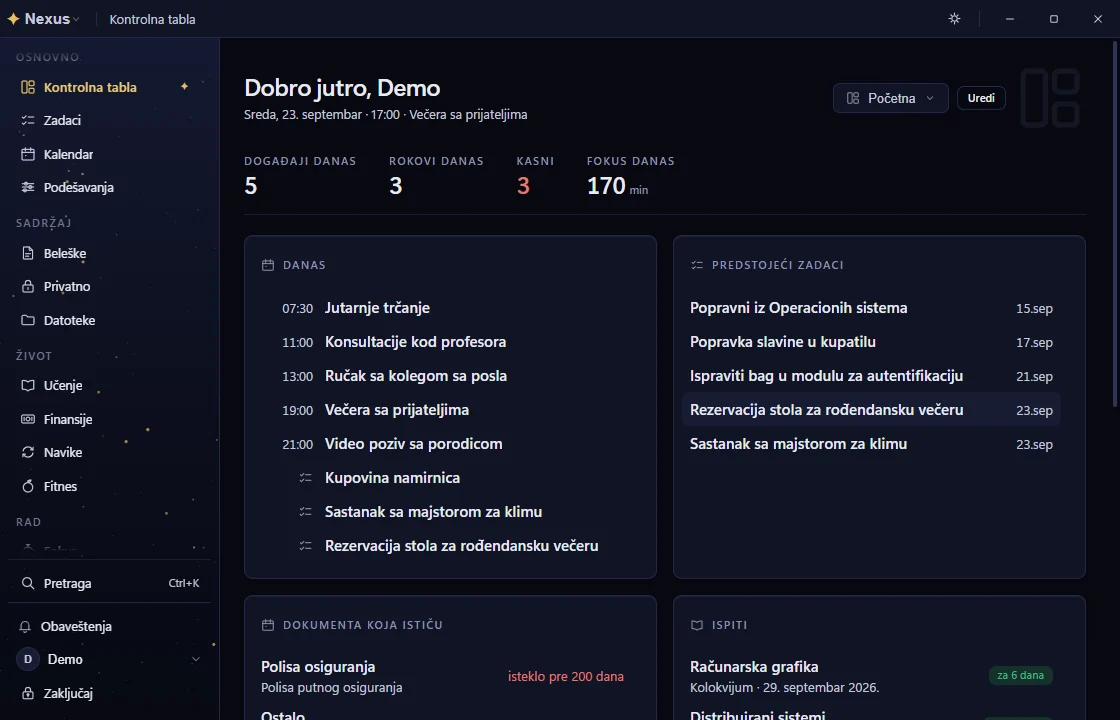
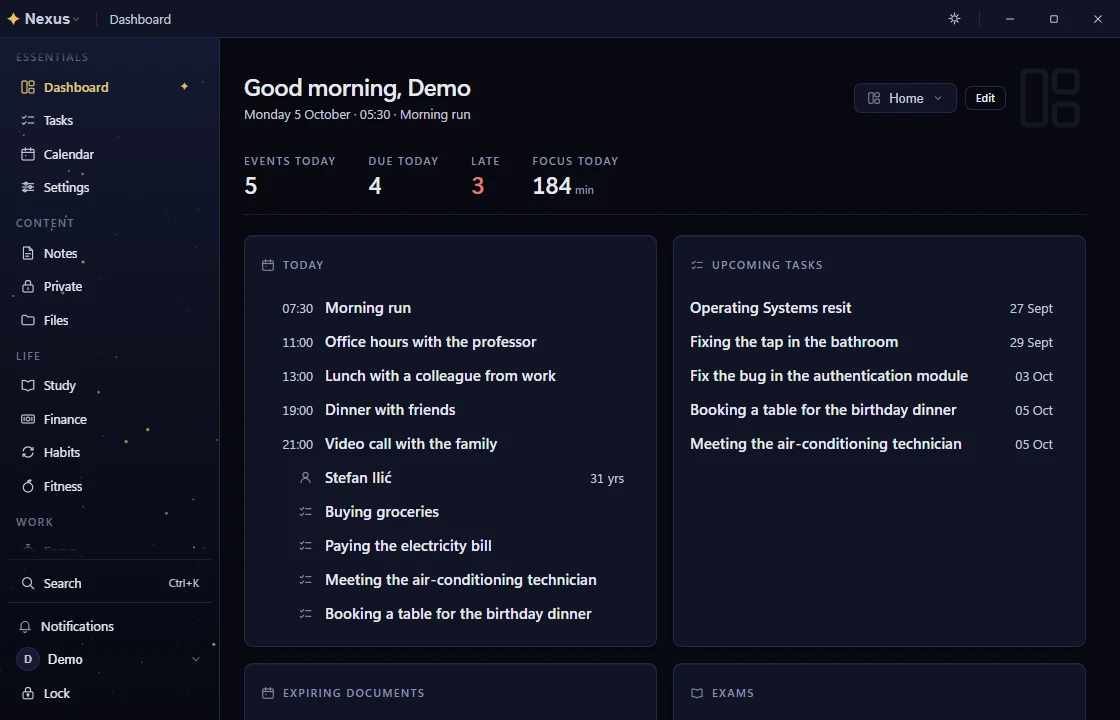
Nexus is public: download, website and source on its card, English screenshots, sticky header and 4,413 backend tests

diff --git a/index.html b/index.html
@@ -55,28 +55,31 @@
 <body>
 <a class="skip" href="#main">Skip to content</a>
 
-<!-- The title band: who, what for, how to reach -->
-<header class="band" id="top">
-    <div class="wrap band-grid">
-        <div class="topline">
-            <a class="mark" href="#top">Luka Stojiljković</a>
-            <nav class="nav" aria-label="Sections">
-                <a href="#experience">Experience</a>
-                <a href="#work">Work</a>
-                <a href="#apps">Windows apps</a>
-                <a href="#projects">Projects</a>
-                <a href="#contact">Contact</a>
-            </nav>
-            <div class="topline-actions">
-                <a href="CV_Luka_Stojiljkovic.pdf" download>Download CV</a>
-                <button type="button" id="theme" aria-label="Switch to dark theme">
-                    <span class="theme-light">Dark</span><span class="theme-dark">Light</span>
-                </button>
-            </div>
+<!-- The bar: name, sections, the CV and the theme, in reach the whole way down -->
+<header class="band bar">
+    <div class="wrap topline">
+        <a class="mark" href="#top">Luka Stojiljković</a>
+        <nav class="nav" aria-label="Sections">
+            <a href="#experience">Experience</a>
+            <a href="#work">Work</a>
+            <a href="#apps">Windows apps</a>
+            <a href="#projects">Projects</a>
+            <a href="#contact">Contact</a>
+        </nav>
+        <div class="topline-actions">
+            <a href="CV_Luka_Stojiljkovic.pdf" download>Download CV</a>
+            <button type="button" id="theme" aria-label="Switch to dark theme">
+                <span class="theme-light">Dark</span><span class="theme-dark">Light</span>
+            </button>
         </div>
+    </div>
+</header>
 
+<!-- The title band: who, what for, how to reach -->
+<section class="band" id="top" aria-labelledby="name">
+    <div class="wrap band-grid">
         <div class="title">
-            <h1>Luka<br>Stojiljković</h1>
+            <h1 id="name">Luka<br>Stojiljković</h1>
             <p class="sub">Software engineer in Belgrade. I lead teams and build complete systems, from banking platforms to LLM agents, and ship them with tests.</p>
         </div>
 
@@ -95,7 +98,7 @@
             </p>
         </aside>
     </div>
-</header>
+</section>
 
 <main id="main">
 
@@ -159,7 +162,7 @@
                 <p class="detail" id="sys-detail" aria-live="polite">Red is the path every request takes: in through the gateway, then on to banka-core or the trading service.</p>
                 <dl class="ledger">
                     <dt>25</dt><dd>engineers on the team</dd>
-                    <dt>2,165</dt><dd>backend tests, JUnit and Mockito</dd>
+                    <dt>4,413</dt><dd>backend tests, JUnit and Mockito</dd>
                     <dt>1,254</dt><dd>frontend tests in Vitest, plus a Cypress suite</dd>
                     <dt>Stack</dt><dd>Java 25, Spring Boot 4, PostgreSQL, React 19, Kotlin, Docker, Ollama</dd>
                 </dl>
@@ -207,7 +210,7 @@
                 <img class="shot shot-dark" src="img/nexus-dark.webp" width="1120" height="720" loading="lazy" alt="The Nexus dashboard in its night theme.">
             </div>
             <div class="work-text">
-                <h3>Nexus</h3>
+                <h3>Nexus <span class="ver">1.4</span></h3>
                 <p class="label"><span>2026</span> Desktop app</p>
                 <p class="summary">Offline-first workspace for tasks, calendar, notes, studying, files, habits, fitness and finance. Your data stays on your device.</p>
                 <ul class="facts">
@@ -216,7 +219,12 @@
                     <li>The local-only build can't reach the network, and CI enforces it.</li>
                 </ul>
                 <p class="stack">TypeScript, React, Electron, SQLCipher, Supabase, Turborepo</p>
-                <p class="note">Open source under Apache 2.0. The public repository opens with the first public release.</p>
+                <p class="note">Open source under Apache 2.0.</p>
+                <p class="links">
+                    <a class="btn btn-app" href="https://github.com/lukastojiljkovic/Nexus/releases/latest" target="_blank" rel="noopener">Download</a>
+                    <a href="https://lukastojiljkovic.github.io/Nexus/" target="_blank" rel="noopener">Website</a>
+                    <a href="https://github.com/lukastojiljkovic/Nexus" target="_blank" rel="noopener">Source</a>
+                </p>
             </div>
         </article>
 

diff --git a/css/styles.css b/css/styles.css
@@ -44,6 +44,7 @@
     --route: #c8102e;
 
     --margin: clamp(20px, 3.4vw, 48px);
+    --bar: 64px;
     --gutter: 24px;
     color-scheme: light;
 }
@@ -66,7 +67,7 @@
 
 html {
     scroll-behavior: smooth;
-    scroll-padding-top: 16px;
+    scroll-padding-top: calc(var(--bar) + 16px);
     scrollbar-color: var(--ink-2) var(--paper);
     -webkit-text-size-adjust: 100%;
 }
@@ -140,10 +141,15 @@ a {
 
 .band { background: var(--band); color: var(--on-band); }
 [data-theme="dark"] .band { box-shadow: inset 0 -1px var(--hair); }
-.band-grid { padding-block: 20px 26px; }
+.band-grid { padding-block: 0 26px; }
+
+/* The bar stays at the top while the page scrolls; the title band scrolls away beneath it. */
+.bar { position: sticky; top: 0; z-index: 5; }
+.bar,
+[data-theme="dark"] .bar { box-shadow: inset 0 -1px rgb(255 255 255 / 0.14); }
 
 .topline {
-    grid-column: 1 / -1;
+    min-height: var(--bar);
     display: flex;
     align-items: center;
     gap: 24px;
@@ -391,7 +397,8 @@ main > .section:first-child { margin-top: clamp(48px, 6vw, 80px); }
 /* ---------- Selected work ---------- */
 
 .work-stem { grid-column: 1 / 5; }
-.work-nexus { grid-column: 5 / 13; }
+.work-nexus { --accent: var(--app); grid-column: 5 / 13; }
+[data-theme="dark"] .work-nexus { --accent: var(--app-dark); }
 .work-stem h3,
 .work-text h3 { font-size: 1.75rem; line-height: 1.1; font-weight: 720; letter-spacing: -0.02em; }
 .work-stem h3 { border-top: 6px solid var(--ink); padding-top: 14px; }

diff --git a/README.md b/README.md
@@ -16,7 +16,7 @@ Open to applied AI, full-stack and backend roles, in Belgrade or remote.
 
 Led a 25-person team delivering an enterprise banking platform: Spring Boot services, a React 19 web
 client, a Kotlin / Jetpack Compose Android app and Docker infrastructure. Wrote the majority of the
-codebase, covered by 2,165 backend tests, 1,254 frontend tests and a Cypress end-to-end suite.
+codebase, covered by 4,413 backend tests, 1,254 frontend tests and a Cypress end-to-end suite.
 Designed Arbitro, a self-hosted LLM banking assistant with tool calling, RAG over the specifications
 and SSE streaming on Ollama.
 
@@ -32,8 +32,8 @@ for time, task and revenue tracking.
 | --- | --- | --- |
 | [Stem Agent](https://github.com/lukastojiljkovic/stem-agent) | An LLM agent that specializes itself by evolving pipelines of typed tools, with beam search and a MAP-Elites archive. | Python, LM Studio |
 | [Serbian speech recognition](https://github.com/lukastojiljkovic/serbian-realtime-speech-recognition) | Real-time recognition for Serbian: a hybrid voice-activity detector feeding a published Wav2Vec2 XLS-R checkpoint, with live Cyrillic output. Group project. | PyTorch, Hugging Face |
-| [Nexus](https://lukastojiljkovic.github.io/CV/#work) | An offline-first desktop workspace with an encrypted local store and optional end-to-end encrypted sync. Public release in preparation. | TypeScript, Electron, Supabase |
-| [PermaDel](https://github.com/lukastojiljkovic/PermaDel) | A secure file shredder for Windows with File Explorer integration and Windows Hello verification. | C#, WinUI 3, C++ |
+| [Nexus](https://github.com/lukastojiljkovic/Nexus) | An offline-first desktop workspace with an encrypted local store and optional end-to-end encrypted sync. | TypeScript, Electron, Supabase |
+| [PermaDel](https://github.com/lukastojiljkovic/PermaDel) | A secure file shredder for Windows with File Explorer integration and an optional Windows Hello check. | C#, WinUI 3, C++ |
 | [Refreshify](https://github.com/lukastojiljkovic/Refreshify) | Runs the built-in Windows repair tools in a safe order after creating a restore point. | C#, WinUI 3 |
 | [PerfWindow](https://github.com/lukastojiljkovic/PerfWindow) | A real-time hardware monitor: a Rust dashboard fed by an on-demand .NET sensor service. | Rust, .NET 8 |
 | [Pwrschdlr](https://github.com/lukastojiljkovic/Power-Scheduler) | A Windows 11 timer that shuts down, restarts, sleeps, hibernates or signs out. | C#, WinUI 3 |
@@ -44,7 +44,7 @@ for time, task and revenue tracking.
 **Languages:** Java, Kotlin, Python, TypeScript, C#, C++, Rust, SQL  
 **Backend:** Spring Boot, Spring Security, JPA/Hibernate, REST, SSE, FastAPI  
 **Frontend and mobile:** React 19, Vite, Tailwind CSS, Jetpack Compose  
-**Data and DevOps:** PostgreSQL, SQLite, Supabase, Docker, Kubernetes, GitHub Actions  
+**Data and DevOps:** PostgreSQL, SQLite, Supabase, Docker, Kubernetes manifests, GitHub Actions  
 **Desktop:** WinUI 3, Windows App SDK, Electron, egui
 
 ## Education
